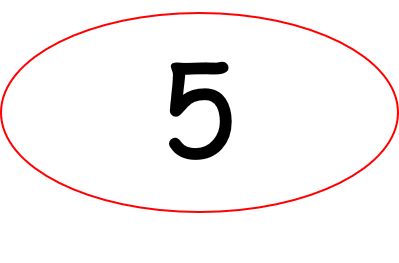
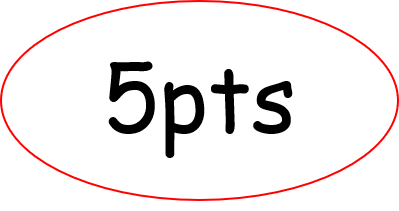
New Functionality
changed the score update to a picture (With the points in text)
created 3 demo stages - pure skill, high skill, and low skill (luck), before the game starts
built the log analyser (just visuals, no stats yet)

diff --git a/wam/game.py b/wam/game.py
@@ -67,6 +67,9 @@ class GameManager:
         self.skill_ratio_master = 0.8
         self.skill_flip_counter = 0
         self.skill_flip_floor = 8
+        self.demo_stage = 0
+        
+        
         # Define file locations
         self.intro_txt_file_loc = 'text/intro.txt'
         self.hole_pos_file_loc = 'config/hole_positions.txt'
@@ -299,25 +302,6 @@ class GameManager:
         pause_dict = {x[0]: x[1] for x in pause_list}
         return pause_dict
 
-    # @property
-    # @staticmethod
-    # def _text_objects(text, font):
-    #     '''
-    #     Property method, imports a text file and creates a dictionary for the
-    #     text displayed under given game pause conditions
-
-    #     Parameters
-    #     ----------
-    #     self : self
-
-    #     Returns
-    #     -------
-    #     pause_dict: dict
-    #         dictionary of pause conditions and pause text
-    #     '''
-    #     text_surface = font.render(text, True, (0, 0, 0), (1,1,1))  # (0,0,0) = black
-    #     return text_surface, text_surface.get_rect()
-
     def intro(self):
         '''
         Runs the game intro screen (basically communicates the text)
@@ -451,7 +435,8 @@ class GameManager:
 
     def pause(self):
         while self.pause_reason:
-            if self.pause_reason in ['standard', 'stage', 'demo']:
+            if self.pause_reason in ['standard', 'stage', 'demoGen',
+                                     'demoSkill', 'demoLuck']:
                 if self.pause_reason == 'stage':
                     if self.mole_count == self.stage_pts[-1]:
                         self.end()
@@ -468,7 +453,19 @@ class GameManager:
                                     location_y=650,#self.SCREEN_HEIGHT + 40,
                                     location_x=1150)
                     self.check_key_event()
-                else:
+                elif self.pause_reason == 'demoGen':
+                    self.write_text(self.pause_reason_dict[self.pause_reason],
+                                    background=(255,255,255),
+                                    location_y=650,#self.SCREEN_HEIGHT + 40,
+                                    location_x=1150)
+                    self.check_key_event()
+                elif self.pause_reason == 'demoSkill':
+                    self.write_text(self.pause_reason_dict[self.pause_reason],
+                                    background=(255,255,255),
+                                    location_y=650,#self.SCREEN_HEIGHT + 40,
+                                    location_x=1150)
+                    self.check_key_event()
+                elif self.pause_reason == 'demoLuck':
                     self.write_text(self.pause_reason_dict[self.pause_reason],
                                     background=(255,255,255),
                                     location_y=650,#self.SCREEN_HEIGHT + 40,
@@ -519,10 +516,19 @@ class GameManager:
                     self.misses = 0
                     self.mole_count = 0
                     self.score = 0
-                    self.stage = 1
-                    self.pause_reason = 'demo'
-                    self.demo = False
-                    self.check_condition_change(demo=True)
+                    self.demo_stage +=1
+
+                    if self.demo_stage == 1:
+                        self.pause_reason = 'demoGen'
+                        self.skill_luck_rat = 1-self.skill_ratio_master
+                    elif self.demo_stage == 2:
+                        self.pause_reason = 'demoLuck'
+                        self.skill_luck_rat = self.skill_ratio_master
+                    elif self.demo_stage == 3:
+                        self.pause_reason = 'demoSkill'
+                        self.stage = 1
+                        self.demo = False
+                        self.check_condition_change(demo=True)
                     self.pause()
                 else:
                     self.sound_effect.play_stage_up()
@@ -608,10 +614,6 @@ class GameManager:
         self.write_text(current_misses_string, colour=(0, 0, 0), background=(255,255,255), size=22,
                    location_x=1050, location_y=400)
         
-        last_score = "LAST SCORE: " + str(int(self.score_t0)) + "    "
-        self.write_text(last_score, colour=(255, 0, 0), background=(255,255,255), size=22,
-                   location_x=1050, location_y=550)
-
         # 2x2 rating persistence
         if self.last_rate:
             self.write_text('X',colour=(255, 0, 0), background=None, size=22,
@@ -698,7 +700,7 @@ class GameManager:
         return ani_num, left, mole_is_down, interval, frame_num
 
     def check_condition_change(self, demo=False):
-        print('check if donditions change', self.skill_flip_counter)
+        print('check if conditions change', self.skill_flip_counter)
         if self.skill_flip_counter > self.skill_flip_floor:
             self.wam_logger.log_skill_change(self.skill_luck_rat)
             if np.random.binomial(1,0.2, 1)[0] == 1:

diff --git a/analysis/log_analysis.py b/analysis/log_analysis.py
@@ -1,0 +1,87 @@
+# -*- coding: utf-8 -*-
+"""
+Created on Sat May 15 17:08:29 2021
+
+@author: Mike
+"""
+import pandas as pd
+import matplotlib.pyplot as plt
+
+f = open("Laky.log")
+#f = open("harada.log")
+#f = open("Nizar.log")
+skill_luck_rat = 'demo'
+line = f.readline()
+skill_luck_rat, score, skill_luck_rating, mole_x, mole_y, rel_x,rel_y = None, None,None,None,None,None,None
+
+results = []
+while line:
+    if 'Event(11-Score' in line:
+         tmp_line = line.split("score_inc': ")
+         score = tmp_line[1][0]
+    elif "_vs_luck_rating': " in line:
+         tmp_line = line.split("_vs_luck_rating': ")
+         skill_luck_rating = tmp_line[1][0:6]
+         try:
+             skill_luck_rating = skill_luck_rating.split(',')[0]
+         except:
+             pass
+    elif "9-Hit Attempt {'result':" in line:
+         tmp_line = line.split("'pos': (")
+         mole_x = tmp_line[1].split(", ")[0]
+         mole_y = tmp_line[1].split(", ")[1].split(')')[0]
+         tmp_line = line.split("'relative_loc': (")
+         rel_x = tmp_line[1].split(", ")[0]
+         rel_y = tmp_line[1].split(", ")[1].split(')')[0]        
+         results += [[skill_luck_rat, score, skill_luck_rating, mole_x, mole_y, rel_x,rel_y]]
+    elif "12-Skill_Luck_Ratio" in line:
+         tmp_line = line.split("12-Skill_Luck_Ratio {'New': ")
+         skill_luck_rat = tmp_line[1][0:4]
+    line = f.readline()
+f.close()   
+
+columns = ['luck_skill', 'score', 'skill_luck_rating',
+                             'mole_x', 'mole_y', 'rel_x', 'rel_y']
+df = pd.DataFrame(results, columns = columns)
+for col in columns[1:]:
+    df[col] = df[col].astype(float)
+
+df['distance'] = df['rel_x']**2 + df['rel_y']**2
+df['distance'] = df['distance']**0.5
+print(df)
+
+
+plt.scatter(df['rel_x'], df['rel_y'], alpha=0.2)
+plt.xlabel('rel_x')
+plt.ylabel('rel_y')
+plt.xlim(-30,30)
+plt.ylim(-30,30)
+plt.title('Relative Hit Locations')
+plt.show()
+
+plt.scatter(df['distance'], df['skill_luck_rating'], alpha=0.2)
+plt.xlabel('distance')
+plt.ylabel('skill_luck_rating')
+plt.xlim(0,30)
+plt.ylim(0,1)
+plt.title('Distance vs Skill Luck Rating')
+plt.show()
+
+plt.scatter(df['luck_skill'], df['skill_luck_rating'], alpha=0.2)
+plt.xlabel('luck_skill actual')
+plt.ylabel('skill_luck_rating')
+plt.xlim(0,1)
+plt.ylim(0,1)
+plt.title('Environment Skill vs Skill Luck Rating')
+plt.show()
+
+#plt.plot(df['score'], alpha=0.2, c='g')
+plt.plot(df['skill_luck_rating'], alpha=0.2, c = 'b')
+plt.plot(df['luck_skill'], alpha=0.2, c='r')
+plt.title('Environment Skill vs Skill Luck Rating')
+plt.show()
+
+# df.plot(kind='scatter', x='rel_x', y='rel_y', xlim=(-30,30),ylim=(-30,30),alpha=0.5)
+# df.plot(kind='scatter', x='distance', y='skill_luck_rating', xlim=(0,30),ylim=(0,1),alpha=0.5)
+# df['score'].plot(linewidth=0.5)
+# df.plot(kind='scatter', y='luck_skill', x='skill_luck_rating', xlim=(0,1),ylim=(0,1),alpha=0.5)
